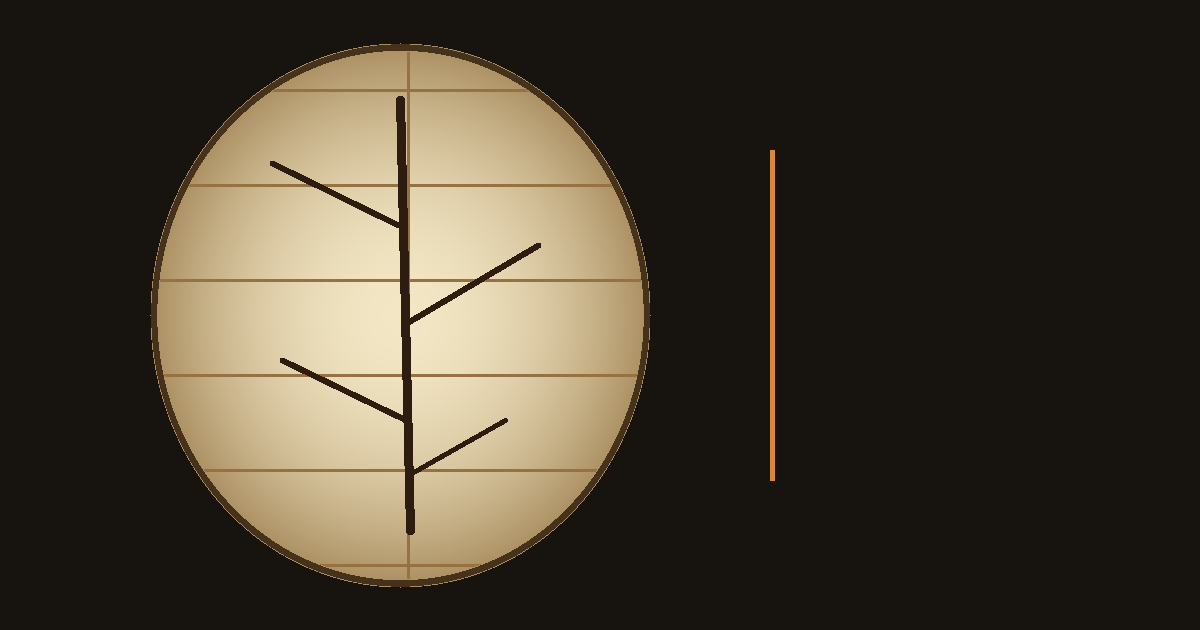
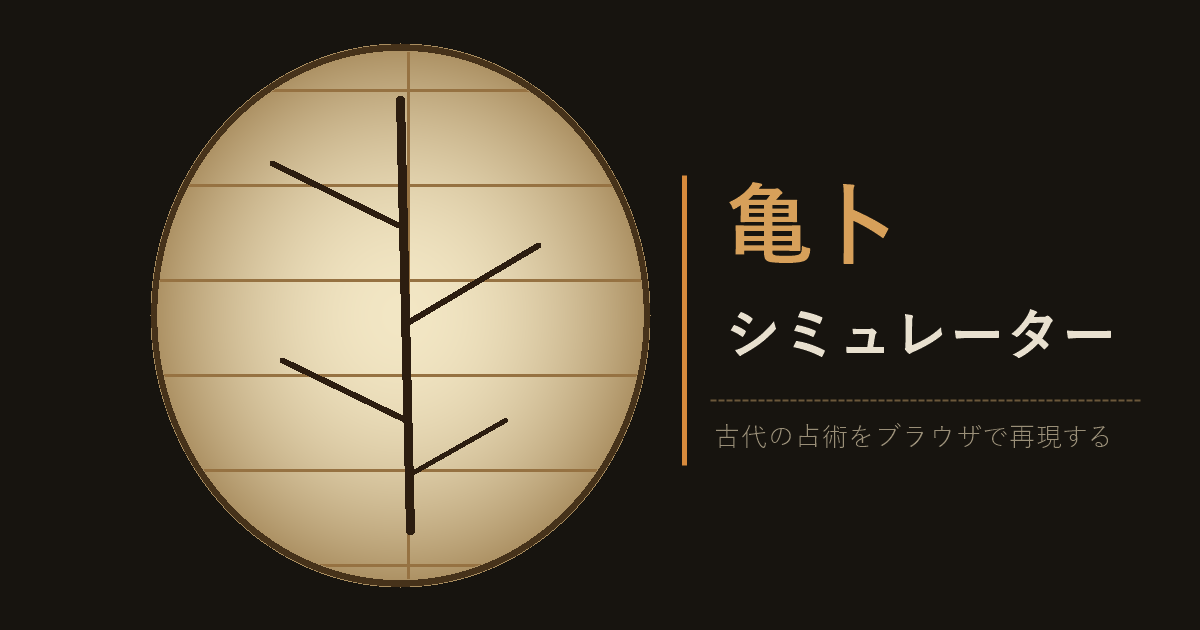
Improve discoverability: SEO meta, JSON-LD, FAQ, hashtags, OGP text

Changed region(s): [[0.555, 0.2413, 0.925, 0.754]]

diff --git a/index.html b/index.html
@@ -4,8 +4,8 @@
 <meta charset="UTF-8">
 <meta name="viewport" content="width=device-width, initial-scale=1">
 <meta name="google-site-verification" content="Gc3ySm89rvFCmuOI9HnXIlS_E80_WtW6GQcP2actlnE">
-<title>亀卜シミュレーター</title>
-<meta name="description" content="古代中国の占術「亀卜」をブラウザで再現するシミュレーター。Canvas上の亀甲に灼を描き、ひび割れ(卜)の結果を占います。">
+<title>亀卜シミュレーター - 古代の占術「亀卜」をブラウザで再現</title>
+<meta name="description" content="古代中国発の占術「亀卜（きぼく）」をブラウザで再現する無料シミュレーター。亀甲に灼を描いて卜兆（ひび割れ）を出し、6つの型から総合・仕事・恋愛・健康の吉凶を判定します。甲骨文字の起源になった占いの解説付き。">
 <meta property="og:type" content="website">
 <meta property="og:title" content="亀卜シミュレーター">
 <meta property="og:description" content="古代中国の占術「亀卜」をブラウザで再現。亀甲に灼を描き、ひび割れの結果を占います。">
@@ -16,7 +16,63 @@
 <meta property="og:image:alt" content="亀卜シミュレーターの亀甲とひび割れのイメージ">
 <meta name="twitter:card" content="summary_large_image">
 <meta name="theme-color" content="#17140f">
+<link rel="canonical" href="https://hokonoko.github.io/kiboku/">
 <link rel="icon" href="favicon.svg" type="image/svg+xml">
+<script type="application/ld+json">
+{
+  "@context": "https://schema.org",
+  "@graph": [
+    {
+      "@type": "WebApplication",
+      "name": "亀卜シミュレーター",
+      "url": "https://hokonoko.github.io/kiboku/",
+      "applicationCategory": "EntertainmentApplication",
+      "operatingSystem": "Web",
+      "browserRequirements": "JavaScript対応ブラウザ",
+      "inLanguage": "ja",
+      "description": "古代中国発の占術「亀卜（きぼく）」をブラウザで再現する無料シミュレーター。亀甲に灼を描いて卜兆（ひび割れ）を出し、6つの型から吉凶を判定します。",
+      "offers": { "@type": "Offer", "price": "0", "priceCurrency": "JPY" }
+    },
+    {
+      "@type": "FAQPage",
+      "mainEntity": [
+        {
+          "@type": "Question",
+          "name": "亀卜（きぼく）とはどんな占いですか？",
+          "acceptedAnswer": {
+            "@type": "Answer",
+            "text": "亀の腹甲に火で熱した木片を当て、生じるひび割れ「卜兆（ぼくちょう）」の形から吉凶を読む古代の占術です。殷（商）時代の中国では国家の大事を占う最も神聖な占いとされ、その結果を亀甲や獣骨に刻んだ文字が甲骨文字です。"
+          }
+        },
+        {
+          "@type": "Question",
+          "name": "日本に亀卜はいつ伝わりましたか？",
+          "acceptedAnswer": {
+            "@type": "Answer",
+            "text": "古墳時代に中国大陸から朝鮮半島を経て伝わったと考えられています。律令国家では卜部（うらべ）が神祇官に属し、祀るべき神や祭の日時など国家の重大事を占いました。長崎県対馬市の雷神社には国選択無形民俗文化財の「亀卜神事」が今も伝わります。"
+          }
+        },
+        {
+          "@type": "Question",
+          "name": "シミュレーターの使い方を教えてください。",
+          "acceptedAnswer": {
+            "@type": "Answer",
+            "text": "願い事を入力して腹甲をクリックすると、灼いたひび（卜兆）が走ります。「強さ」で枝分かれの多さ、「時間」で主線の長さが変わり、ひびの形を6つの型に分類して総合・仕事・恋愛・健康の4カテゴリで吉凶を判定します。"
+          }
+        },
+        {
+          "@type": "Question",
+          "name": "判定結果は史実どおりですか？",
+          "acceptedAnswer": {
+            "@type": "Answer",
+            "text": "ひびの型分類や吉凶の解釈は当サイト独自のもので、史実の文献に基づくものではありません。亀卜の雰囲気を楽しむためのシミュレーターです。"
+          }
+        }
+      ]
+    }
+  ]
+}
+</script>
 <style>
   :root { color-scheme: dark; }
   * { box-sizing: border-box; }
@@ -209,6 +265,9 @@
   #about .pattern-list { list-style: none; padding-left: 0; }
   #about .pattern-list li { margin-bottom: 0; padding: 5px 0 5px 12px; border-left: 2px solid #4a3d28; }
   #about .note { font-size: 12px; color: #8f8570; margin-top: 16px; }
+  #about dl { margin: 0 0 12px; }
+  #about dt { margin-top: 12px; }
+  #about dd { margin: 4px 0 0; }
 </style>
 </head>
 <body>
@@ -281,6 +340,18 @@
       <li><strong>細流型</strong> — 枝を持たず細く流れる。内なる声に耳を澄ませる時。</li>
     </ul>
     <p class="note">※ このページは亀卜の雰囲気を楽しむためのシミュレーターです。ひびの判定や吉凶の解釈は史実の文献に基づくものではなく、当サイト独自のものです。</p>
+
+    <h3>よくある質問</h3>
+    <dl>
+      <dt><strong>Q. 亀卜（きぼく）とはどんな占いですか？</strong></dt>
+      <dd>亀の腹甲に火で熱した木片を当て、生じるひび割れ「卜兆（ぼくちょう）」の形から吉凶を読む古代の占術です。殷（商）時代の中国では国家の大事を占う最も神聖な占いとされ、その結果を亀甲や獣骨に刻んだ文字が甲骨文字です。</dd>
+      <dt><strong>Q. 日本に亀卜はいつ伝わりましたか？</strong></dt>
+      <dd>古墳時代に中国大陸から朝鮮半島を経て伝わったと考えられています。律令国家では卜部（うらべ）が神祇官に属し、祀るべき神や祭の日時など国家の重大事を占いました。長崎県対馬市の雷神社には国選択無形民俗文化財の「亀卜神事」が今も伝わります。</dd>
+      <dt><strong>Q. シミュレーターの使い方を教えてください。</strong></dt>
+      <dd>願い事を入力して腹甲をクリックすると、灼いたひび（卜兆）が走ります。「強さ」で枝分かれの多さ、「時間」で主線の長さが変わり、ひびの形を6つの型に分類して総合・仕事・恋愛・健康の4カテゴリで吉凶を判定します。</dd>
+      <dt><strong>Q. 判定結果は史実どおりですか？</strong></dt>
+      <dd>ひびの型分類や吉凶の解釈は当サイト独自のもので、史実の文献に基づくものではありません。亀卜の雰囲気を楽しむためのシミュレーターです。</dd>
+    </dl>
   </article>
 </main>
 

diff --git a/src/app.js b/src/app.js
@@ -300,7 +300,8 @@
     if (!lastSnap || !interpCache.overall || !currentPattern) return;
     const wish = getWish();
     const text = '亀卜: ' + interpCache.overall.rank + '【' + currentPattern.name + '】'
-      + (wish ? '「' + wish + '」' : '');
+      + (wish ? '「' + wish + '」' : '')
+      + '\n#亀卜 #亀卜シミュレーター #占い';
     const url = 'https://twitter.com/intent/tweet?text=' + encodeURIComponent(text)
       + '&url=' + encodeURIComponent(buildShareURL());
     window.open(url, '_blank', 'noopener');

diff --git a/tools/make-ogp.js b/tools/make-ogp.js
@@ -1,5 +1,8 @@
 // OGP画像生成: 1200x630 の PNG を純Node（依存なし）で書き出す。
 // 使い方: node tools/make-ogp.js
+// 注意: このスクリプトは ogp.png をタイトル文字なしで上書きする。
+// 公開中の ogp.png にはタイトル文字入りへの編集が加えられているため、
+// 再生成した場合は PowerShell(System.Drawing) 等でタイトルを重ねてから commit すること。
 'use strict';
 const fs = require('fs');
 const path = require('path');
